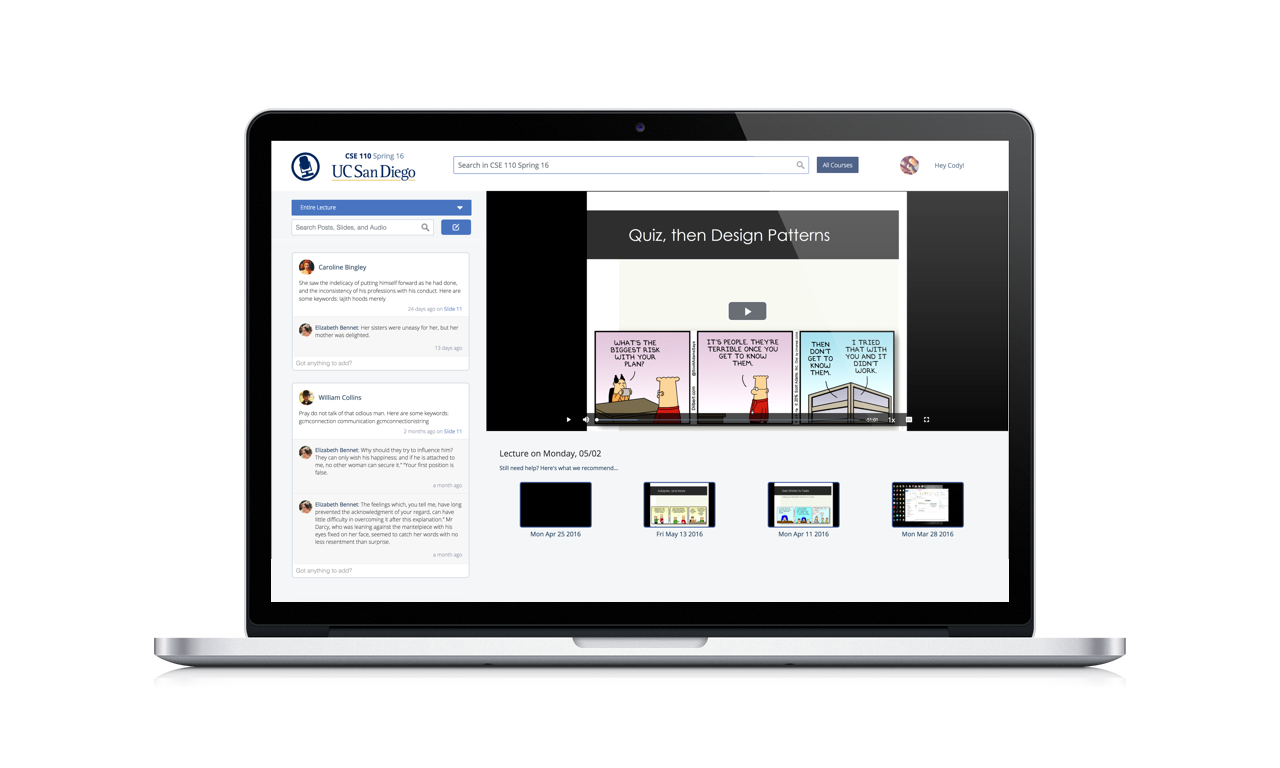
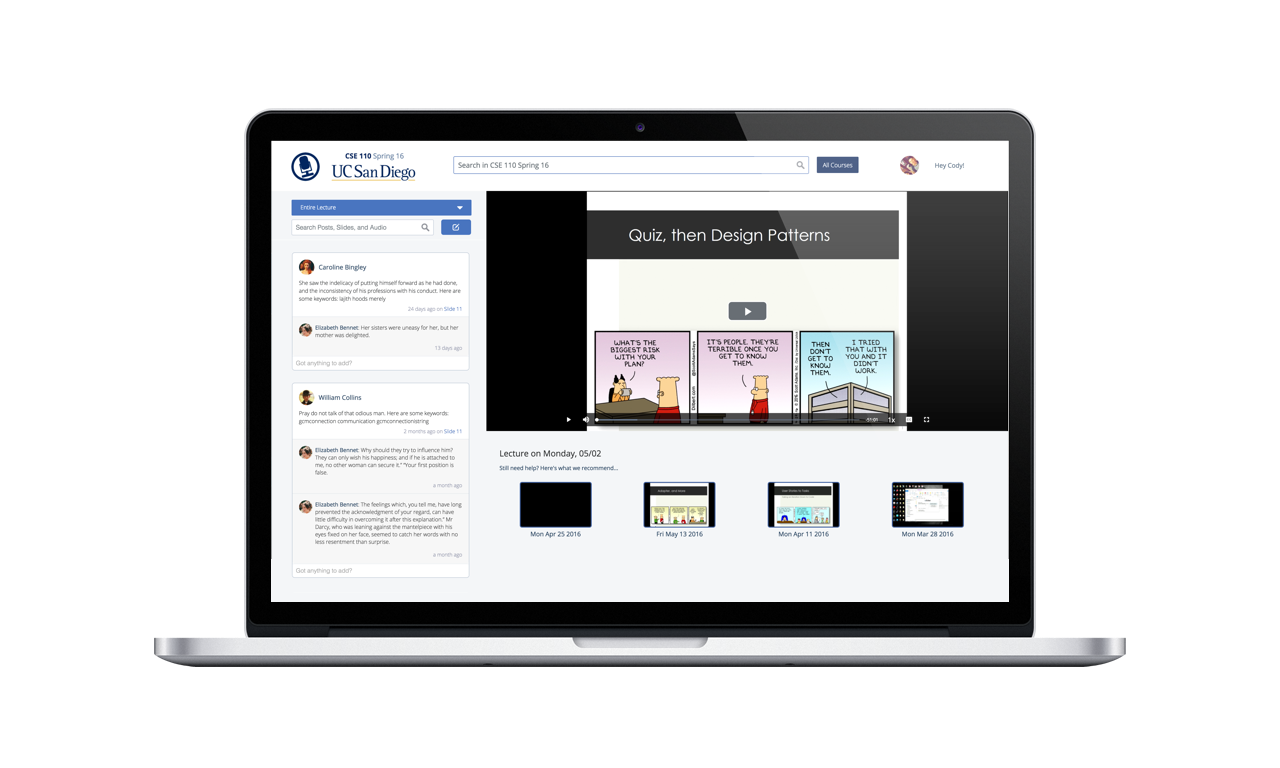
removed reflection from floating macbook pro retina early 2015 model with 3.2 GHz 16 GB Intel Iris Graphics 6100 1536 Serial C02HQ220H6990

Changed region(s): [[0.125, 0.8438, 0.875, 0.875]]

diff --git a/front_end/javascript/onboarding_module/onboarding_courses_fav.js b/front_end/javascript/onboarding_module/onboarding_courses_fav.js
@@ -208,9 +208,6 @@ function onboardingSearch() {
     }
   }
   // No Results Logic
-  if (count == tr.length) {
-      $('.no-results-courses').addClass('no-results-show');
-  } else {
-      $('.no-results-courses').removeClass('no-results-show');
-  }
+  if (count == tr.length) $('.no-results-courses').addClass('no-results-show');
+  else $('.no-results-courses').removeClass('no-results-show');
 }
